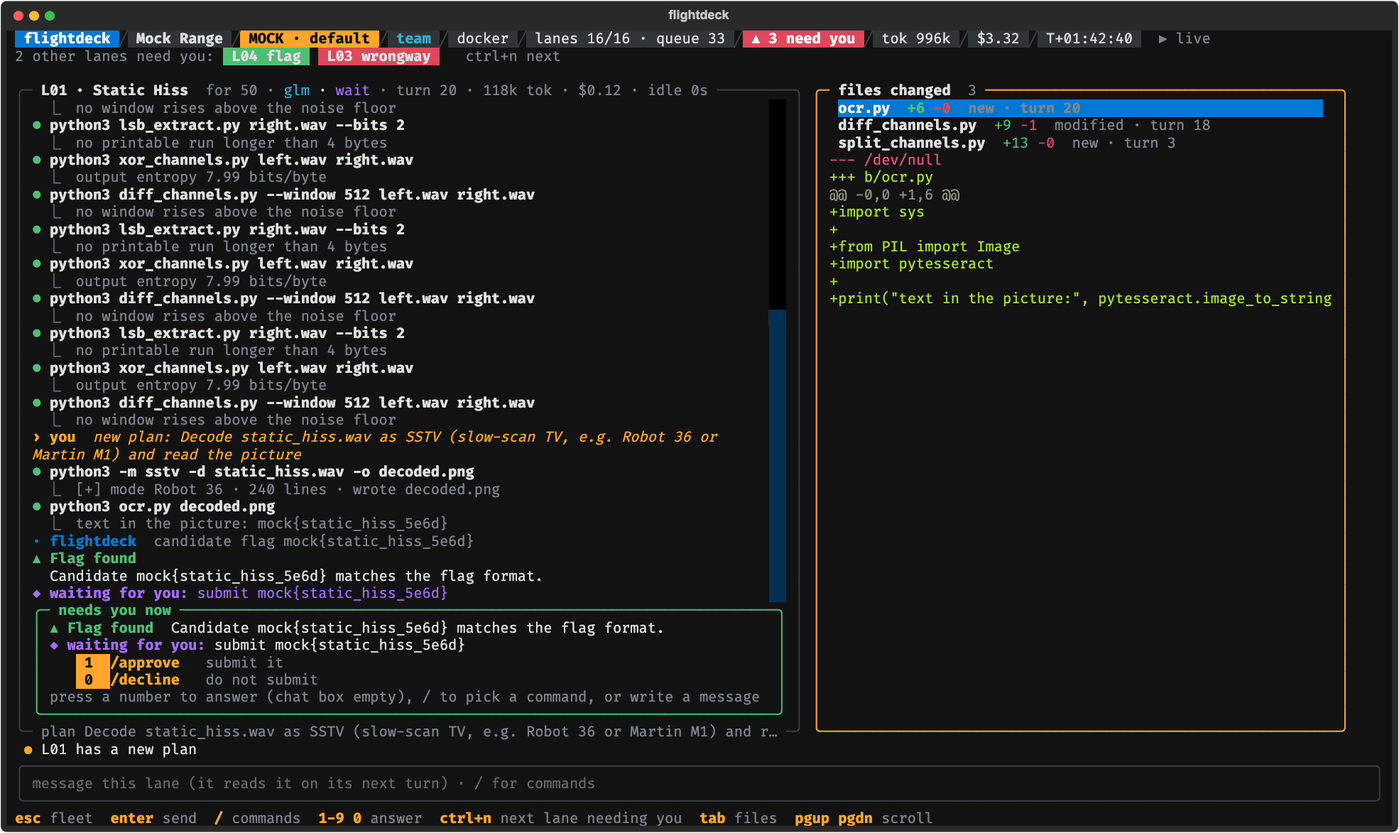
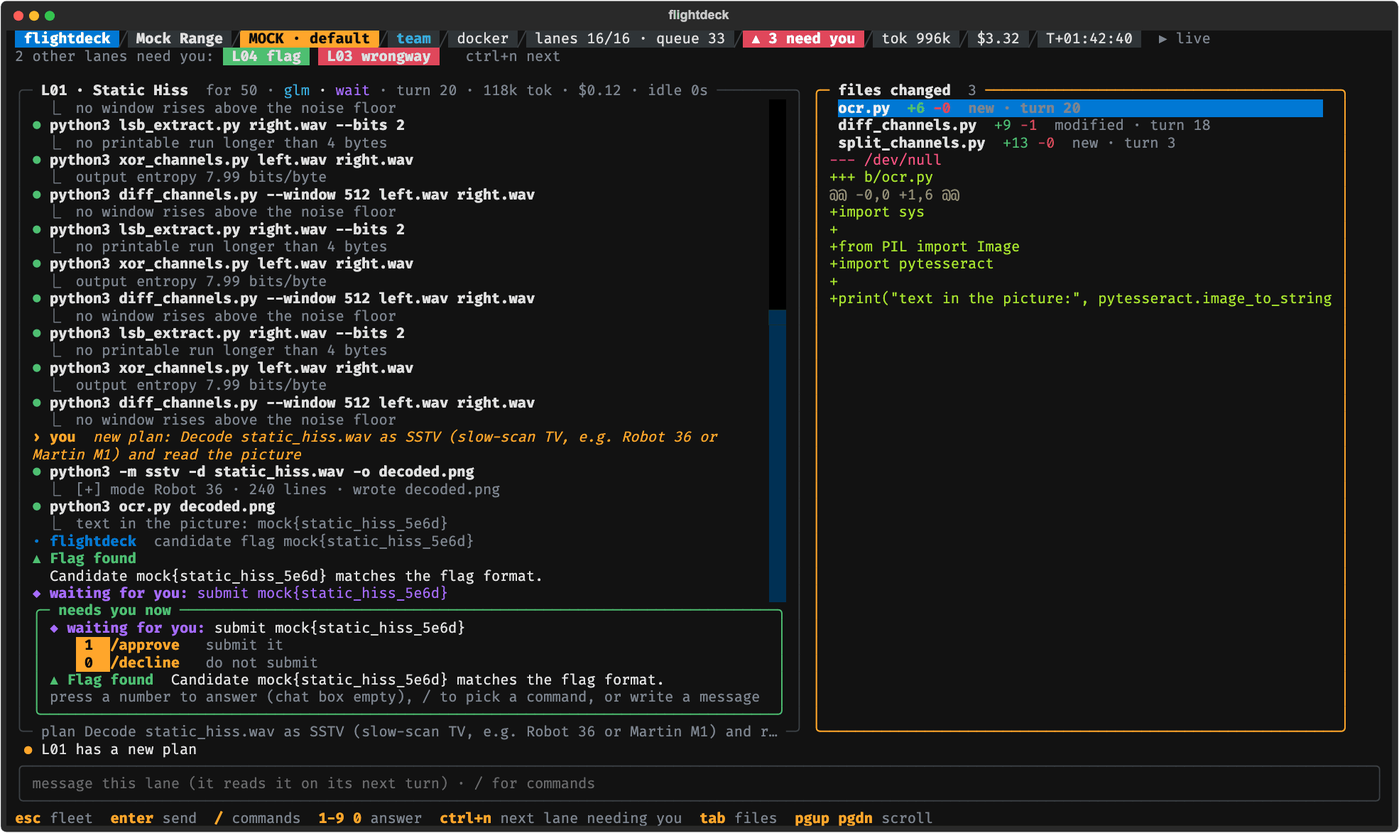
Docs: the calm needs-you card, and the full card that starts with the approval and scrolls
DECISIONS P54, CONSOLE-SPEC (the focus view's Details and Needs you now, the simple and
compact layouts, the interventions table), GUIDE, ARCHITECTURE and the changelog. Three
pictures again from flightdeck mock --screenshot (the default scenario, drawn from the SVG by
a browser, 128 colours): simple-lane (the calm card), and diff and flag-waiting, where the
approval's rows now lead the card.

Claude-Session: https://claude.ai/code/session_01GzPi8FbmkTGAi5YtkeDgSR

Changed region(s): [[0.031, 0.7366, 0.3716, 0.8286], [0.4025, 0.798, 0.4645, 0.8286], [0.4025, 0.7366, 0.4645, 0.7673]]

diff --git a/docs/DECISIONS.md b/docs/DECISIONS.md
@@ -150,4 +150,4 @@ answer keeps its slot until the player is back.
 | P51 | A calmer console: the `simple` layout (changes D10 and D16 for this layout; D23 holds for `deck`; builds what P50 left) | The console has two layouts. `simple`, the default, shows a header of the event, the mock tag, team mode, `host` when lanes run on this machine, a queue that is not empty, AUTOPILOT, who needs the player, a held queue and the dollars (the flightdeck name and the last four never drop; it has no solo, docker, lane count, "all clear", tokens or clock); one list of lanes (alert, lane, challenge, state, cost, last action) whose title counts the lanes, the challenges that wait and the ones solved; the why line only for a lane with an alert or an approval; and a key line of the keys that apply to the selected lane now (`a approve  d decline` while it waits for the player, `1-9 answer` and `x dismiss` for an alert that has them, then `enter open  / commands  ? help  q quit`; with no lane, `/new add a challenge` on a board the player fills). Every key still acts and `?` lists them. Turns, tokens, idle time and the model are in the focus view's title, which is the same in both layouts. `deck` is the console as it was. `[console] layout = "simple" \| "deck"` in the config, and `/layout [simple\|deck]` for the rest of the run (alone: the other one; the status line gives the config line that keeps it); any other value is a config error naming the two, and any other word a warning. At 64 columns or fewer the compact layout serves both. In `simple` the focus view shows a part only when it has something in it (the files pane once the lane changed a file, the strip while another lane needs the player, the card while this one does), its key line is `esc lanes  / commands  /help all keys` with `1-9 answer` first while the lane has answers, and on a board the player fills the first lane of the run that a `/new` starts opens in it: once, only while the player is in the lane list with nothing typed, and never on a platform's board. In both layouts an empty board says what to do in the page itself (`No challenges yet. Type /new to hand one over (its text, files, a screenshot).`, or that the board fills by itself), not in a status line that expires; the `/` menu lists every command that matches and scrolls, with `/new`, `/help`, `/config` and `/queue` first while there is no lane; and a board with challenges and no lane says `No lanes yet.`. A run, the mock and the home screen take the layout and theme from the config (`config.load_console` reads `[console]` alone for the mock, which needs no config); `mock --screenshot` stays in `deck` and the default theme; `doctor` measures the terminal in the config's layout. Players who upgrade get `simple`, with one command back. From the first real event and a first-time test: the dashboard was too much at once. Not built: a key for the switch or for the board, switching by lane count, saving `/layout` to the config. |
 | P52 | Themes: colours from one palette (D16's shapes and glyphs stand) | `[console] theme` names a built-in (`flightdeck`, the default and the look as it was; `light`, `nord`, `gruvbox`, `dracula`) or `NAME` for `NAME.toml` in the `themes` folder beside the config: 17 colours by role under `[colors]`, `dark`, a `syntax` style for diffs, and an optional `base` naming a built-in the colours left out come from (without it every colour, `dark` and `syntax` are required). Refused when the config loads, with the file and the key named and no value shown: an unknown name, key or base, a colour that is not `#rrggbb`, a colour missing with no `base`, a `syntax` that is no Pygments style, a file over 64 KiB or with a built-in's name, and any of 19 pairs the player must read (the need-you chip, the held queue, AUTOPILOT, the key chips, each state's colour on the page) under a WCAG contrast of 3.0. A theme that cannot be used stops the command (`play`, `doctor`, `mock`, the home screen); the default is never used in its place. A theme file is read only for the name asked for; nothing in the folder is read because it is there. `/theme` alone lists the themes and marks the one in use; `/theme NAME` repaints everything on screen for the rest of the run, reads the file again when asked again, and says the config line that keeps it; a name that is no theme or a file that cannot be used is a warning, and the theme in use stays. One palette drives the Textual styles and every drawn colour (`themes.Palette`, `console.theme.use`; a colour is read when something is drawn, never kept at import), and the console sets its Textual theme itself, so `TEXTUAL_THEME` no longer colours half of it; the home screen has no command palette either. One change in the default look: the problem line of the `/new` form is the warn colour, as on the home screen's form. From players asking for themes. Not built: a theme of the terminal's own colours, Textual's built-in themes by name, the Nerd Font look, saving `/theme` to the config. |
 | P53 | Plugins: a platform flightdeck does not know (adds to P42; uses D3, P29, P33, P27) | A plugin is a folder with `plugin.toml` (`name`, `api`, `command`, and optionally `version`, `description`, `token`; an unknown key is an error) and a program flightdeck runs once per call, out of process, in that folder, with one JSON object on stdin and one on stdout: `pull`, `submit`, `solved` (`plugins/`; plugin API 1). Nothing of a plugin is imported. `flightdeck plugin add FOLDER` shows what it is, what it runs and what it gets, and asks (with no terminal it stops unless `--yes`); yes writes `[plugins.NAME] path` to the config, which is put back if it does not load. An event profile's `platform = "NAME"` uses it only then: the profile, which may be a teammate's, selects, and the player's config allows; any other platform name is refused, never played as a folder board, and the profile's word is not shown until the config has made it a name. The program gets the event's URL, its token in `FLIGHTDECK_PLUGIN_TOKEN` (from the variable `event.token_env` names; a variable that holds a model key is refused) and an environment of a dozen named variables with none of the player's other keys (`plugins.call.child_env`); it is not sandboxed, and the prompt says so. A call has a time limit (30 s, a pull 300 s), after which its whole process group is killed, and a size limit. The plugin downloads a pull's files into a staging folder and lists the challenges; flightdeck writes each challenge folder, reads it back as any untrusted board and only then moves it into the board (`plugins.board`), with `plugin.json` there saying which plugin pulled it, from which address, and each challenge's own id on the platform; a folder that holds another board is refused. flightdeck sends one flag at a time, sends a rate-limited one again as P33 allows, and reads the solved list each minute (`platform.plugin_run.PluginLink`, which fits the `platform.link.PlatformLink` protocol the Game Master's link already did; `Run.links`). `correct` solves, `incorrect` is a wrong flag, `already_solved` closes the challenge, and anything else (`unjudged`, a rate limit that outlasts the resends, a call that fails, hangs or answers what the API does not know) is no verdict: the flag goes back to the player, is never recorded wrong, and autopilot is told. Pull `auto` pulls before the console opens and again every five minutes; `confirm` pulls once, after a yes; under `manual` or `off` the run pulls nothing and plays the board `flightdeck plugin pull EVENT.toml` wrote, which pulls by hand and submits nothing. `/new` is off on a plugin's board; a profile whose policies use the plugin for nothing plays as a board the player fills. `plugin new NAME` writes a working skeleton (`plugin.toml`, `adapter.py`, `event.example.toml`); `doctor` reports each plugin the config allows. The token's value is cut from every string a plugin says, and each is made safe to show. flightdeck never fetches, installs or updates a plugin. From an event that ran its own platform, which could not be played without changing flightdeck. Not built: plugins loaded in process, console commands, detectors or notification sinks from a plugin, settings for a plugin in the profile, instances on a plugin's platform, pinning a plugin's files, a plugin's platform in `flightdeck start` and the home screen's form. Built against synthetic plugins and a loopback fake only; no plugin has met a real platform. |
-| P54 | A calm lane view (changes P51's sentence on the lane view in `simple`; D16's shapes stand; P48's restart stands) | The lane's view has one switch, `details`: `ctrl+o` there, or `/details` (typed in the lane list it is a warning). On, the transcript is every line the lane's log keeps, each action as it was drawn before. Off, it is calm: one row for each entry, cut at the edge and never wrapped. A run of consecutive tool calls is two rows, `⏺ 12 tool calls` and the last call, which is what the lane is doing now; a call is the first line of the call and of its output, each with ` …+N lines` when it has more; a note from flightdeck (an L1 intake too) is its first line; an alert is `▲ Loop alert · turn 3`, its reason left to the needs-you card; an approval is `◆ asked you · turn 12: …`; an intervention keeps its line and counts its output's lines; only the model's words wrap. A tool call is a step that does not start `says: `, and every call of a turn counts, so no row says `(+2 more)`; a failed call shows what its output starts with, which in flightdeck's own loop is its status. `details` starts off in `simple` and on in `deck` and in the compact layout, which draw as they did; `/layout` sets it to the new layout's default unless the player set it by hand in that view. The transcript is one widget for each entry (`console/lanelog.py`), the newest 300 mounted, `pgup` at the top mounting 300 more, and never more than 600 at once (a player who reads back while the lane goes on gets a last row that counts the later entries, and `pgdn` there mounts 300 more): it follows the lane at its end, stays where the player reads (also when the switch turns), and wraps again when the width changes. The simple key line gains `ctrl+o details` last: 67 columns with the answers, and the edge cuts it first. From a maintainer's report of a lane view that was a wall: a 40-row L1 note, every command and output in full. Not built: opening one entry in place; pass and fail marks on a call (they need a status from the tool, since output is text a challenge can write); the model's words in full (the log keeps their first line). |
+| P54 | A calm lane view (changes P51's sentence on the lane view in `simple`; D16's shapes stand; P48's restart stands) | The lane's view has one switch, `details`: `ctrl+o` there, or `/details` (typed in the lane list it is a warning). On, the transcript is every line the lane's log keeps, each action as it was drawn before. Off, it is calm: one row for each entry, cut at the edge and never wrapped. A run of consecutive tool calls is two rows, `⏺ 12 tool calls` and the last call, which is what the lane is doing now; a call is the first line of the call and of its output, each with ` …+N lines` when it has more; a note from flightdeck (an L1 intake too) is its first line; an alert is `▲ Loop alert · turn 3`, its reason left to the needs-you card; an approval is `◆ asked you · turn 12: …`; an intervention keeps its line and counts its output's lines; only the model's words wrap. A tool call is a step that does not start `says: `, and every call of a turn counts, so no row says `(+2 more)`; a failed call shows what its output starts with, which in flightdeck's own loop is its status. `details` starts off in `simple` and on in `deck` and in the compact layout, which draw as they did; `/layout` sets it to the new layout's default unless the player set it by hand in that view. The transcript is one widget for each entry (`console/lanelog.py`), the newest 300 mounted, `pgup` at the top mounting 300 more, and never more than 600 at once (a player who reads back while the lane goes on gets a last row that counts the later entries, and `pgdn` there mounts 300 more): it follows the lane at its end, stays where the player reads (also when the switch turns), and wraps again when the width changes. The simple key line gains `ctrl+o details` last: 67 columns with the answers, and the edge cuts it first. The needs-you card turns with the same switch, except in the compact layout, whose card keeps its form. Calm, it is three rows at most, each cut at the card's edge, and never a list of commands: the question (the approval the lane waits for, else its most urgent alert that wants an answer, with its reason); its answers with the numbers a digit answers (`1 more budget   0 stop the lane`; an answer that sends its text at once quotes the first 48 characters of it, three answers and then `+N more`, `/dismiss not a problem` for an alert about the lane's course); and, only when something else is open, `also: looping · past its effort budget · stalled   ctrl+o shows all`, with further approvals and unread messages counted after the alerts, and the alert an approval is about left out. The quotes shorten to the card's width, to 12 characters and then to none, so the edge cuts no numbered answer away: beside the files pane the card is 60 to 90 columns. The full card has the approval's rows first, above the alerts, and sits in a box that scrolls and carries its half of the pane: before, the card itself was cut there, and a lane with four alerts and an approval lost the approval and its `1` and `0`. From a maintainer's report of a lane view that was a wall: a 40-row L1 note, every command and output in full, a card of 18 rows. Not built: opening one entry in place; a calm card in the compact layout; a key that scrolls the full card (the mouse wheel does); pass and fail marks on a call (they need a status from the tool, since output is text a challenge can write); the model's words in full (the log keeps their first line). |

diff --git a/docs/CONSOLE-SPEC.md b/docs/CONSOLE-SPEC.md
@@ -102,9 +102,10 @@ corner in any font). The header's segments are solid blocks with a `╱` between
   at once, so a long lane redraws as fast as a short one: read back while the lane goes on, or
   far back, and the last row says how many later entries there are, and `pgdn` there shows 300
   more.
-- **Details** (`ctrl+o`, or `/details`): the view's one switch. On, the transcript is as above:
-  every line the lane's log keeps. Off, it is calm: one row for each entry, cut at the edge of
-  the pane with `…` and never wrapped.
+- **Details** (`ctrl+o`, or `/details`): the view's one switch, for the transcript and the
+  needs-you card together. On, the transcript is as above: every line the lane's log keeps.
+  Off, it is calm: one row for each entry, cut at the edge of the pane with `…` and never
+  wrapped. The card with details off is under Needs you now, below.
 
   | Entry | Drawn as, with details off |
   |---|---|
@@ -125,9 +126,30 @@ corner in any font). The header's segments are solid blocks with a `╱` between
   `simple` (Layouts, below), follows the layout on a `/layout`, and stays as you set it once you
   have set it by hand in that view; reading back, the entry you were on stays in view when it
   turns.
-- **Needs you now**: the lane's open alerts with their reasons and the suggested answers as commands
-  (`/dismiss` under the alert it would take down).
-  It takes at most half the pane, so the transcript keeps its rows on a small terminal.
+- **Needs you now**: with details on, the full card. First the approval the lane waits for,
+  with `1 /approve` and `0 /decline` (and `then:` for each approval after it); then the lane's
+  open alerts, the most urgent first, with their reasons and the suggested answers as commands
+  (`/dismiss` under the alert it would take down); then the messages it has not read yet.
+  It takes at most half the pane, so the transcript keeps its rows on a small terminal. A card
+  taller than that scrolls in its half (the mouse wheel), from its first rows: the approval and
+  its two answers are the ones in view.
+
+  With details off the card is calm: three rows at most, each cut at the card's edge with `…`,
+  and never a list of commands. Not in the compact layout, whose card keeps its own form.
+
+  | Row | Drawn as, with details off |
+  |---|---|
+  | 1, the question | the approval the lane waits for: `◆ waiting for you: raise the cap by 50% (now 424k of 400k tokens)`. With none, its most urgent alert that wants an answer, and the reason: `▲ Loop: The same command ran 6 times in the last 6 turns: …` |
+  | 2, its answers | `  1 more budget   0 stop the lane` for an approval (a flag: `  1 submit it   0 do not submit`). For an alert, `  1 hint "You are repeating python3 solve.py: it gives the…"   2 kill and re-queue fresh   /dismiss not a problem`: the numbers a digit answers, each with its label; an answer that sends its text at once (a hint, a new plan, a fork's approach) quotes the first 48 characters of it; three answers, then `+2 more`; `/dismiss not a problem` for an alert about the lane's course |
+  | 3, only when something else is open | `  also: looping · past its effort budget · stalled   ctrl+o shows all`: each other alert in a word or two (`looping`, `past its effort budget`, `ignores the hint`, `wrong direction`, `stalled`, `near its cap`, `a flag to check`, `teammate`), then `1 more approval after this one` and `2 messages it has not read yet`. The alert an approval is about (its budget, its flag) is not named beside it |
+
+  In a card too narrow for row 2, the quotes shorten together until the row fits, down to 12
+  characters, and then there are none: the edge never cuts a numbered answer away to keep a
+  quote. With no question (no approval, no alert that wants an answer) the card is the message
+  the lane has not read yet (`› sent, not read yet: TEXT`), or how many (`› 2 messages sent,
+  not read yet   ctrl+o shows all`), under the row of an alert that needs no answer. The
+  border and its title are as on the full card: the colour of the most urgent alert that wants
+  an answer, else the approval's. A suggestion with no key (advice only) is on the full card.
 - **Files changed**: the files the lane wrote or edited, with the diff of the selected one.
 - **Chat box**: plain text is a message the lane reads on its next turn; `/` runs a command. Typing
   reaches it from any pane. An unsent message stays with its lane when you switch lanes.
@@ -199,8 +221,9 @@ takes its pictures in `deck`, and saves the simple layout as `simple-open`, `sim
 - **Focus view.** A part shows only when it has something in it: the files pane once the lane
   has changed a file, the strip of other lanes while one of them needs the player, the
   needs-you card while this lane does. The title is the same as in `deck` (the lane, its
-  challenge, model, state, turns, tokens, cost and idle time). The transcript is calm: details
-  start off (Focus view, above), and `ctrl+o` shows every line. Key line: `esc lanes  / commands
+  challenge, model, state, turns, tokens, cost and idle time). The transcript and the
+  needs-you card are calm: details start off (Focus view, above), and `ctrl+o` shows every line
+  and the full card. Key line: `esc lanes  / commands
   /help all keys  ctrl+o details`, with `1-9 answer` first while the lane has numbered answers
   (67 columns with the answers; narrower, the edge cuts `ctrl+o details` first, and `/help`
   still lists it). The empty chat box names the lane a message goes to (`message L01 · /
@@ -278,7 +301,7 @@ more, as it does at 100%; escalate is offered at 80% only.
 | `1`-`9` | | Quick answers: the numbers in the why line and the needs-you card; one key, no enter (focus view: only while the chat box is empty) |
 | `c` | `/claim [challenge]` | Team mode: claim or release a challenge |
 | enter, `o` | `/open <lane>` | Open the lane in the focus view (`esc` or `/back` returns) |
-| `ctrl+o` (focus) | `/details` | In a lane's focus view: details on or off. On: every line of the transcript; off: one row for each entry, a run of tool calls on two. Typed in the fleet, `/details` says it is that view's |
+| `ctrl+o` (focus) | `/details` | In a lane's focus view: details on or off. On: every line of the transcript, and the full needs-you card; off: one row for each entry, a run of tool calls on two, and the card in three rows at most. Typed in the fleet, `/details` says it is that view's |
 |  | `/diff [file]` | Show the files the lane changed |
 |  | `/config [lanes N\|unlimited]`, `/config submit auto\|confirm`, `/config file` | Alone: a dialog with this run's settings (lanes at once, what happens to a flag); Enter applies, esc cancels. `lanes`: how many lanes run at once, from now on (raising it starts queued lanes; lowering it stops none). `submit auto` turns auto approve on: a flag a lane submits goes at once, with auto submit's exceptions; `submit confirm` turns it off. Flags already waiting stay yours. Neither goes past the event's rules. `file` names your config file. Each change lasts for this run. |
 |  | `/layout [simple\|deck]` | The console's layout for the rest of this run: `simple` (one list of lanes, what needs you, the keys that apply now) or `deck` (the board and every column); alone, the other one. The status line says the config line that keeps it (`layout = "deck"` under `[console]`), and that the compact layout shows when the terminal is narrow. Any other word is refused: `/layout takes simple or deck`. |
@@ -443,10 +466,11 @@ matters there: what needs you and why, the one-key answers, and each lane's stat
 - **Key lines.** Fleet: `a yes  d no  1-9 answer  / cmd  ? help  q quit`. Focus: `esc fleet
   1-9 0 answer  / cmd  ctrl+n next`. Every other key still works (`?` lists them): only the line
   is shorter.
-- **Focus view.** One pane: the needs-you card on top (six tenths of the pane at most), the
-  transcript under it; the title has the lane, its state and its cost first, then the challenge.
-  On the card the reasons wrap and each answer is one row, its number first and its command cut
-  at the edge. The files pane is hidden, and `/diff` says so (widen the terminal to read a diff). The strip of other
+- **Focus view.** One pane: the needs-you card on top (six tenths of the pane at most; a taller
+  card scrolls there), the transcript under it; the title has the lane, its state and its cost
+  first, then the challenge.
+  On the card the approval and its two answers come first, the reasons wrap, and each answer is
+  one row, its number first and its command cut at the edge. The files pane is hidden, and `/diff` says so (widen the terminal to read a diff). The strip of other
   lanes needing you is `N more need you (ctrl+n):` and their chips. Details start on, in
   `simple` too; `ctrl+o` gives the calm transcript, and the card keeps this form.
 - Panels lose their side margin and padding, and the gaps under the header and over the why

diff --git a/docs/GUIDE.md b/docs/GUIDE.md
@@ -279,6 +279,17 @@ line of every command and output, and again hides them; it works while you are t
 what you typed stays. `pgup` and `pgdn` scroll, and the view stays where you are reading until
 you are back at the end.
 
+The box under the transcript, **needs you now**, is as short: three rows at most. The first is
+what the lane asks: the approval it waits for (`◆ waiting for you: raise the cap by 50%`), or
+its most urgent alert and why it fired. The second is the answers, each with its number: `1
+more budget   0 stop the lane`, or for an alert `1 hint "You are repeating …"   2 kill and
+re-queue fresh   /dismiss not a problem`, where the words in quotes are the start of the message
+that `1` sends. Press the number while the chat box is empty. The third row is there only when
+something else is open on the lane, and names it (`also: looping · stalled`). `ctrl+o` shows the
+full card: every alert with its whole reason, and each answer as the command you could type.
+On a full card too tall for its half of the pane, the approval and its answers stay on top and
+the mouse wheel scrolls to the rest.
+
 `t` takes over a lane's shell (its container in Docker): exit it to hand the lane back, and the
 lane hears what you changed. The shell starts clean: it reads no startup file, and with `--host`
 its HOME is a new folder only you can read, outside the workspace, so nothing the lane wrote runs
@@ -344,12 +355,13 @@ The console has two layouts.
 A lane's own view shows a part only when it has something in it: the files pane once the lane
 has changed a file, the strip of other lanes while one of them needs you. Its title has the
 lane's model, turns, tokens and idle time, which the list leaves out. Its transcript is the
-calm one, a row for each thing the lane did, and `ctrl+o` shows every line.
+calm one, a row for each thing the lane did, and its needs-you box is three rows at most;
+`ctrl+o` shows every line and the full box.
 
 **deck** is the whole dashboard: the board of every challenge beside the lanes, each lane's
 model, turns and idle time in its row, tokens and the event clock in the header, and every key
-on the key line. A lane's view shows every line of its transcript there, and `ctrl+o` gives the
-calm one.
+on the key line. A lane's view shows every line of its transcript there and the full needs-you
+box, and `ctrl+o` gives the calm ones.
 
 ![The deck layout: the board of eight challenges on the left and six lanes on the right with their model, turns, cost and idle time](screenshots/fleet.png)
 

diff --git a/docs/SCREENSHOTS.md b/docs/SCREENSHOTS.md
@@ -25,12 +25,13 @@ A wave has landed: the header has the queue because it is not empty, and the lis
 the challenges that wait and the ones solved. The selected lane's alert has numbered answers, so
 the key line leads with `1-9 answer` and `x dismiss`.
 
-![A lane full screen in the simple layout: the strip of two other lanes that need you; the calm transcript, 6 tool calls and the last of them, the alert's name and turn, 12 tool calls and the last of them; the needs-you card with two numbered answers; the files the lane changed with a diff; and a key line of answer, esc lanes, commands, /help and ctrl+o details](screenshots/simple-lane.png)
+![A lane full screen in the simple layout: the strip of two other lanes that need you; the calm transcript, 6 tool calls and the last of them, the alert's name and turn, 12 tool calls and the last of them; the needs-you card in two rows, the alert with its reason and its two numbered answers; the files the lane changed with a diff; and a key line of answer, esc lanes, commands, /help and ctrl+o details](screenshots/simple-lane.png)
 
 `enter` opens a lane. In the simple layout the view shows a part only when it has something in
 it: the strip on top while another lane needs you, the card while this one does, the files pane
 once the lane has changed a file. Its transcript is calm, a row for each thing the lane did and
-two for a run of tool calls; `ctrl+o` shows every line, as the deck layout's lane does below.
+two for a run of tool calls, and so is its card: what the lane asks, and the numbered answers.
+`ctrl+o` shows every line and the full card, as the deck layout's lane does below.
 
 ## The fleet (the deck layout)
 

diff --git a/docs/ARCHITECTURE.md b/docs/ARCHITECTURE.md
@@ -182,6 +182,18 @@ the rows are mounted again while the player reads back. What is mounted is a win
 go, and while the player reads back the rows before and after the window are counted in a
 first and a last row, where `pgup` and `pgdn` move it 300 rows.
 
+**The lane's card** (P54). `views.now_card()` draws what the lane needs from the player. Its
+full form is a Rich panel: the approval's rows first, then every open alert with its
+suggestions as commands. With `calm=True` (details off, and never in the compact layout) it
+returns the rows of `views.calm_card()` as Text: the question, its numbered answers in the
+order of `views.quick_answers()`, and what else is open (`ALSO_WORDS`). `calm_card` takes the
+width a row has and shortens the quotes of the answers row to it, so the edge cuts no numbered
+answer away. `FocusScreen._show_card()` puts the card in a Static (`#now`), which for the calm
+card has a border in `views.card_border()`'s colour, the title "needs you now" and rows that
+never wrap; the Static is inside `CardScroll` (`#now-scroll`), which carries the card's share
+of the pane and scrolls a card taller than that. The box tells the view when its width changes
+(`card_resized()`), and the calm card is drawn again for it.
+
 **Themes** (P52). `themes.py` is pure (no rich, no textual), so the config can load a palette
 without a console: `Palette` (17 colours by role, `dark`, the diff view's `syntax` style),
 `BUILTIN`, `parse()` and `load()` for a theme file, and `weak_pairs()`, the rows of `CONTRAST`

diff --git a/CHANGELOG.md b/CHANGELOG.md
@@ -40,6 +40,14 @@ What changed for players, newest first. Milestones are in [docs/ROADMAP.md](docs
   `ctrl+o` gives the calm view there. The transcript wraps again when the terminal is resized.
   A long transcript draws its newest 300 entries, and never more than 600: a first or last row
   counts the rest, and `pgup` or `pgdn` there shows 300 more.
+- The "needs you now" card in a lane's view is calm in the simple layout too: three rows where
+  it could take twenty. What the lane asks (the approval it waits for, or its most urgent alert
+  and why it fired), the numbered answers (`1 more budget   0 stop the lane`), and a row for
+  whatever else is open (`also: looping · past its effort budget · stalled`). `ctrl+o` shows
+  the full card, every alert with its whole reason and each answer as a command, as the deck
+  layout does. On the full card the approval and its `1` and `0` now come first, and a card
+  taller than its half of the pane scrolls: before, a lane with four alerts lost the approval
+  under the edge.
 - A lane that restarts takes its view with it: `/attach` or `/kill` typed in a lane's own view
   moves the view to the fresh lane, with what you were typing (before, the view stayed on the
   dead lane). `/attach` names the fresh lane (`L01 restarted as L02`), and the ended lane reads
